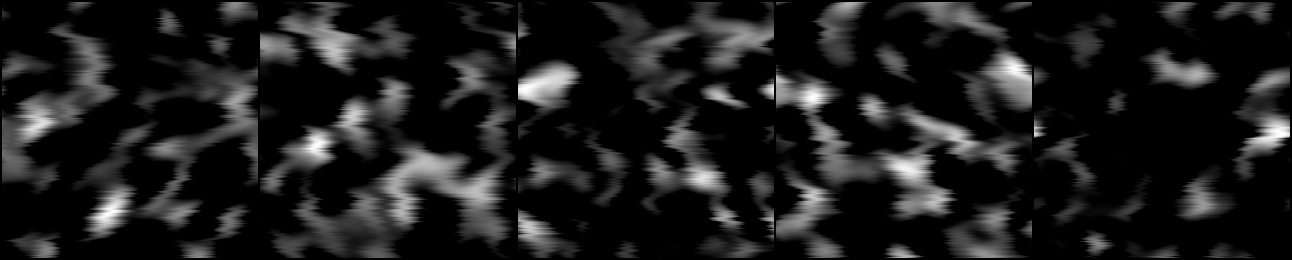
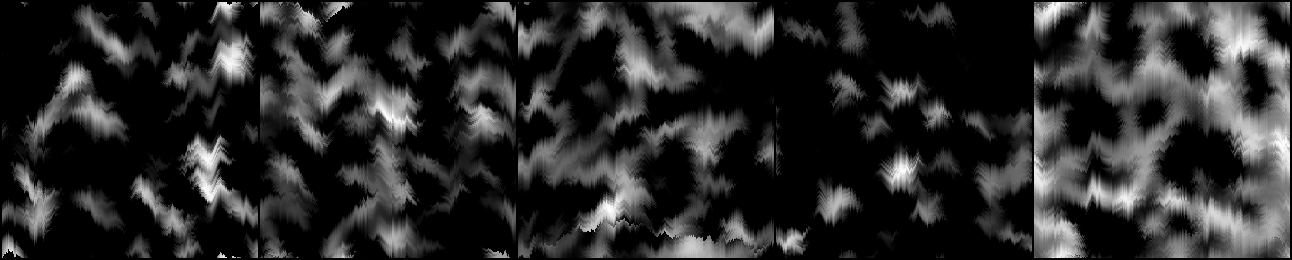
Shift from dataset is now 2d

diff --git a/alt-src/dataset.py b/alt-src/dataset.py
@@ -20,23 +20,24 @@ class JitteredDataset(Dataset):
 
         groundTruth, whiteNoise = self.filter.generateGroundTruth()
         shifts = self.filter.generateShifts()
-        #shiftsVertical = self.filter.generateShifts()
+        shiftsVertical = self.filter.generateShifts()
         shiftedImage = self.filter.shiftImage(groundTruth, shifts)
-        #shiftedImage = self.filter.verticalShiftImage(shiftedImage,
-        #        shiftsVertical)
+        shiftedImageVertical = self.filter.verticalShiftImage(shiftedImage,
+                                                      shiftsVertical)
 
         groundTruth = torch.unsqueeze(groundTruth, 0)
-        whiteNoise = torch.unsqueeze(whiteNoise, 0)
         shiftedImage = torch.unsqueeze(shiftedImage, 0)
+        shiftedImageVertical = torch.unsqueeze(shiftedImageVertical, 0)
 
-        whiteNoise = utils.normaliseTensor(whiteNoise)
         shiftedImage = utils.normaliseTensor(shiftedImage)
+        shiftedImageVertical = utils.normaliseTensor(shiftedImageVertical)
         groundTruth = utils.normaliseTensor(groundTruth)
 
         shiftedImage = config.transforms(shiftedImage)
         groundTruth = config.transforms(groundTruth)
+        shiftedImageVertical = config.transforms(shiftedImageVertical)
 
-        return shiftedImage, groundTruth
+        return shiftedImageVertical, groundTruth
 
 if __name__ == "__main__":
 

diff --git a/alt-src/ImageGenerator.py b/alt-src/ImageGenerator.py
@@ -84,7 +84,7 @@ def test():
     shifts = filter.generateShifts()
     shiftsVertical = filter.generateShifts()
     shiftedImage = filter.shiftImage(groundTruth, shifts)
-    shiftedImageVertical = filter.verticalShiftImage(groundTruth,
+    shiftedImageVertical = filter.verticalShiftImage(shiftedImage,
             shiftsVertical)
 
     groundTruth = torch.unsqueeze(groundTruth, 0)
@@ -99,12 +99,13 @@ def test():
 
     save_image(shiftedImage, "test.png", )
 
-    fig, (ax1,ax2) = plt.subplots(1,2)
-    ax1.imshow(shiftedImageVertical[0])
+    fig, (ax1,ax2, ax3) = plt.subplots(1,3)
+    ax3.imshow(shiftedImageVertical[0])
     ax2.imshow(shiftedImage[0])
-    print(whiteNoise.min().item(), whiteNoise.max().item())
-    print(groundTruth.min().item(), groundTruth.max().item())
-    print(shifts)
+    ax1.imshow(groundTruth[0])
+    # print(whiteNoise.min().item(), whiteNoise.max().item())
+    # print(groundTruth.min().item(), groundTruth.max().item())
+    print(shifts.min().item(), shifts.max().item())
     plt.show()
 
     
